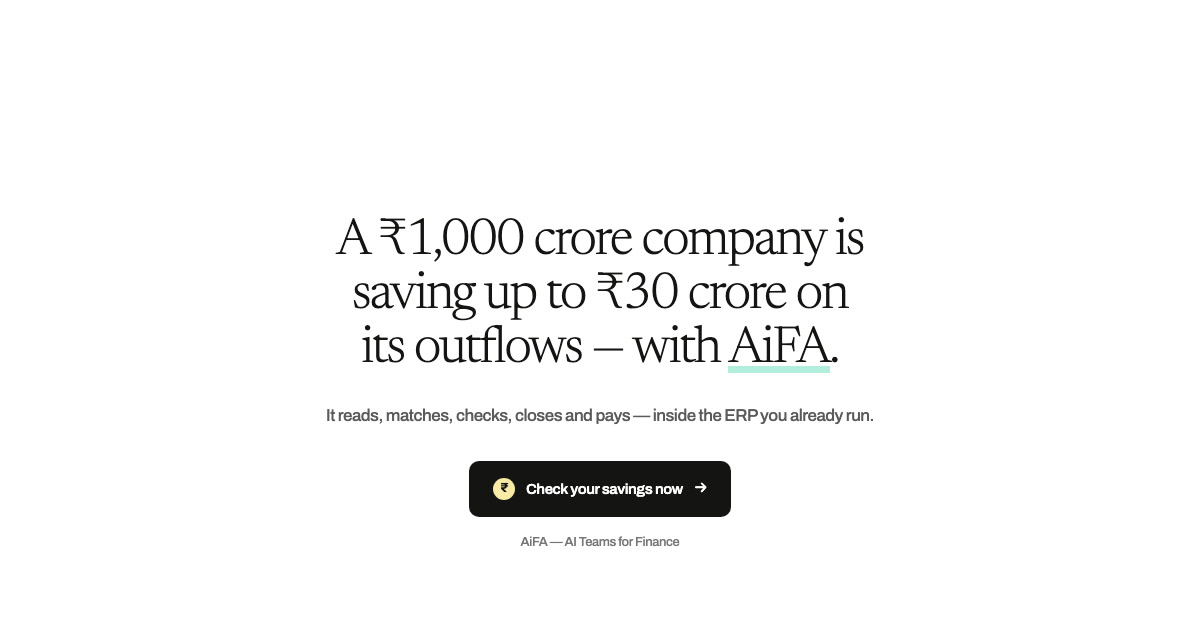
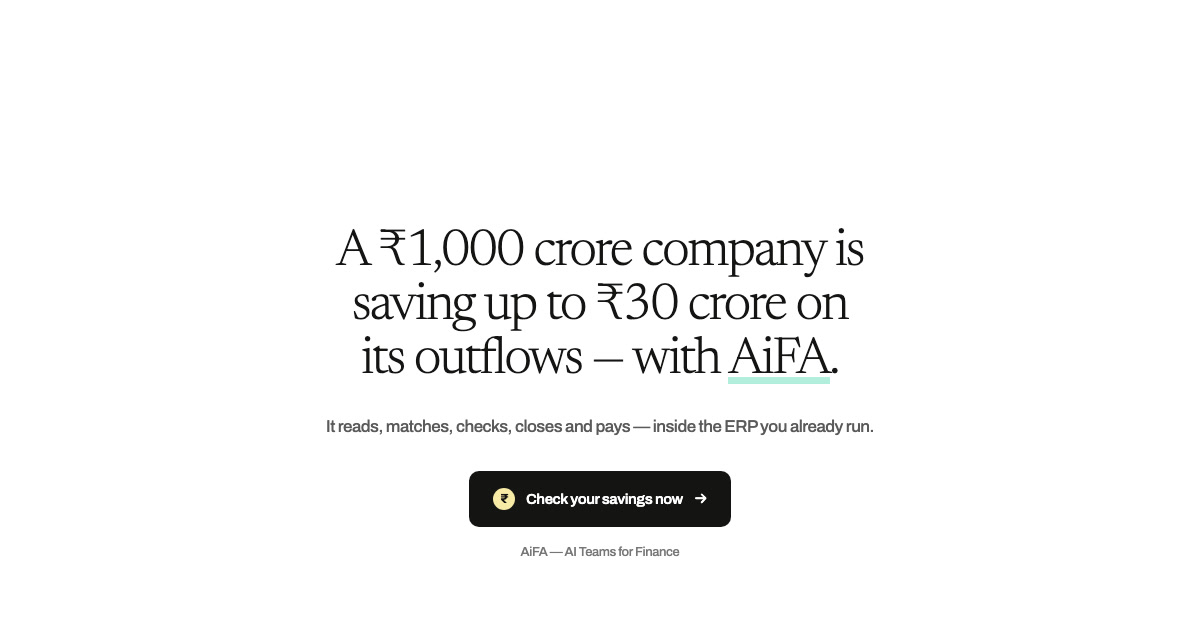
Lead with the AiFA brand; YantrAI becomes the endorsement
The approved d4-seal mark from the brand kit (~/Desktop/memory/aifa_brand)
is now the site's identity, across the homepage and all twelve content
pages, which share the same nav.

* Nav is a lockup: mark, "AiFA", and "by YantrAI" underneath in muted type.
  The old YantrAI wordmark led and AiFA sat in the tagline; that is inverted.
* The dark tile at the centre of the integrations grid leads with the mark
  instead of an inverted YantrAI wordmark.
* Favicon and apple-touch-icon are the -icon variant (rounded ink tile —
  mint disappears below ~20px, so ink alone has to carry the mark).
* Footer variant strips the -reverse mark's baked-in ink ground, since the
  footer is #12100E rather than #151414.
* OG card regenerated, since it is a render of the hero.

SVGs are copied from the kit rather than redrawn, so a change there is one
copy away from being a change here.

Changed region(s): [[0.2775, 0.3317, 0.74, 0.6937], [0.37, 0.7238, 0.6167, 0.9048]]

diff --git a/public/index.html b/public/index.html
@@ -82,9 +82,9 @@ body { margin: 0; background: #FFFFFF; }
 
   <div data-nav="1" style="position: sticky; top: 0px; z-index: 30; background: rgb(255, 255, 255); border-bottom: 1px solid rgb(230, 234, 228); display: flex; align-items: center; justify-content: space-between; gap: 32px; padding: 16px 64px;">
     <div style="display: flex; align-items: center; gap: 14px;">
-      <img src="assets/yantrai_logo.png" alt="YantrAI" style="height: 22px; width: auto; display: block;">
+      <a href="/" data-brand="1" style="display: flex; align-items: center; gap: 11px; text-decoration: none;"><img src="assets/aifa-mark.svg" alt="" width="30" height="30" style="height: 30px; width: 30px; display: block;"><span style="display: flex; flex-direction: column; line-height: 1;"><span style="font-size: 19px; font-weight: 700; letter-spacing: -0.022em; color: #151414;">AiFA</span><span data-brand-by="1" style="margin-top: 3px; font-size: 10.5px; font-weight: 500; letter-spacing: 0.02em; color: #9A9A9A;">by YantrAI</span></span></a>
       <span data-nav-tagline="1" style="display: flex; align-items: baseline; gap: 9px; white-space: nowrap; border-left: 1px solid rgb(220, 224, 218); padding-left: 14px;">
-        <span style="font-size: 15px; font-weight: 700; letter-spacing: -0.35px; color: rgb(21, 20, 20);">AiFA</span>
+        
         <span style="font-size: 13px; font-weight: 500; letter-spacing: -0.26px; color: rgb(90, 90, 90);">AI Teams for Finance</span>
       </span>
     </div>
@@ -462,7 +462,7 @@ body { margin: 0; background: #FFFFFF; }
       </div>
 
       <div style="position: absolute; left: 50%; top: 50%; width: 210px; height: 210px; margin-left: -105px; transform: translateY(-50%) perspective(900px) rotateX(46deg) rotateZ(-2deg); background: rgb(21, 20, 20); border-radius: 26px; box-shadow: rgba(21, 20, 20, 0.34) 0px 40px 70px; display: flex; flex-direction: column; align-items: center; justify-content: center; gap: 12px;">
-        <img src="assets/yantrai_logo.png" alt="YantrAI" style="height: 26px; width: auto; display: block; filter: brightness(0) invert(1);">
+        <img src="assets/aifa-mark-onDark.svg" alt="" width="30" height="30" style="height: 30px; width: 30px; display: block;">
         <span style="font-size: 13px; font-weight: 600; letter-spacing: -0.39px; color: rgb(255, 255, 255);">AiFA</span>
       </div>
 

diff --git a/public/what-it-found/index.html b/public/what-it-found/index.html
@@ -93,9 +93,9 @@ document.addEventListener('DOMContentLoaded', function () {
 <a class="visually-hidden" href="#main">Skip to content</a>
 <div data-nav="1" style="position: sticky; top: 0px; z-index: 30; background: rgb(255, 255, 255); border-bottom: 1px solid rgb(230, 234, 228); display: flex; align-items: center; justify-content: space-between; gap: 32px; padding: 16px 64px;">
     <div style="display: flex; align-items: center; gap: 14px;">
-      <img src="/assets/yantrai_logo.png" alt="YantrAI" style="height: 22px; width: auto; display: block;">
+      <a href="/" data-brand="1" style="display: flex; align-items: center; gap: 11px; text-decoration: none;"><img src="/assets/aifa-mark.svg" alt="" width="30" height="30" style="height: 30px; width: 30px; display: block;"><span style="display: flex; flex-direction: column; line-height: 1;"><span style="font-size: 19px; font-weight: 700; letter-spacing: -0.022em; color: #151414;">AiFA</span><span data-brand-by="1" style="margin-top: 3px; font-size: 10.5px; font-weight: 500; letter-spacing: 0.02em; color: #9A9A9A;">by YantrAI</span></span></a>
       <span data-nav-tagline="1" style="display: flex; align-items: baseline; gap: 9px; white-space: nowrap; border-left: 1px solid rgb(220, 224, 218); padding-left: 14px;">
-        <span style="font-size: 15px; font-weight: 700; letter-spacing: -0.35px; color: rgb(21, 20, 20);">AiFA</span>
+        
         <span style="font-size: 13px; font-weight: 500; letter-spacing: -0.26px; color: rgb(90, 90, 90);">AI Teams for Finance</span>
       </span>
     </div>

diff --git a/public/agents/3-way-match-agent/index.html b/public/agents/3-way-match-agent/index.html
@@ -80,9 +80,9 @@ body { margin: 0; background: #FFFFFF; }
 <a class="visually-hidden" href="#main">Skip to content</a>
 <div data-nav="1" style="position: sticky; top: 0px; z-index: 30; background: rgb(255, 255, 255); border-bottom: 1px solid rgb(230, 234, 228); display: flex; align-items: center; justify-content: space-between; gap: 32px; padding: 16px 64px;">
     <div style="display: flex; align-items: center; gap: 14px;">
-      <img src="/assets/yantrai_logo.png" alt="YantrAI" style="height: 22px; width: auto; display: block;">
+      <a href="/" data-brand="1" style="display: flex; align-items: center; gap: 11px; text-decoration: none;"><img src="/assets/aifa-mark.svg" alt="" width="30" height="30" style="height: 30px; width: 30px; display: block;"><span style="display: flex; flex-direction: column; line-height: 1;"><span style="font-size: 19px; font-weight: 700; letter-spacing: -0.022em; color: #151414;">AiFA</span><span data-brand-by="1" style="margin-top: 3px; font-size: 10.5px; font-weight: 500; letter-spacing: 0.02em; color: #9A9A9A;">by YantrAI</span></span></a>
       <span data-nav-tagline="1" style="display: flex; align-items: baseline; gap: 9px; white-space: nowrap; border-left: 1px solid rgb(220, 224, 218); padding-left: 14px;">
-        <span style="font-size: 15px; font-weight: 700; letter-spacing: -0.35px; color: rgb(21, 20, 20);">AiFA</span>
+        
         <span style="font-size: 13px; font-weight: 500; letter-spacing: -0.26px; color: rgb(90, 90, 90);">AI Teams for Finance</span>
       </span>
     </div>

diff --git a/public/agents/discount-agent/index.html b/public/agents/discount-agent/index.html
@@ -80,9 +80,9 @@ body { margin: 0; background: #FFFFFF; }
 <a class="visually-hidden" href="#main">Skip to content</a>
 <div data-nav="1" style="position: sticky; top: 0px; z-index: 30; background: rgb(255, 255, 255); border-bottom: 1px solid rgb(230, 234, 228); display: flex; align-items: center; justify-content: space-between; gap: 32px; padding: 16px 64px;">
     <div style="display: flex; align-items: center; gap: 14px;">
-      <img src="/assets/yantrai_logo.png" alt="YantrAI" style="height: 22px; width: auto; display: block;">
+      <a href="/" data-brand="1" style="display: flex; align-items: center; gap: 11px; text-decoration: none;"><img src="/assets/aifa-mark.svg" alt="" width="30" height="30" style="height: 30px; width: 30px; display: block;"><span style="display: flex; flex-direction: column; line-height: 1;"><span style="font-size: 19px; font-weight: 700; letter-spacing: -0.022em; color: #151414;">AiFA</span><span data-brand-by="1" style="margin-top: 3px; font-size: 10.5px; font-weight: 500; letter-spacing: 0.02em; color: #9A9A9A;">by YantrAI</span></span></a>
       <span data-nav-tagline="1" style="display: flex; align-items: baseline; gap: 9px; white-space: nowrap; border-left: 1px solid rgb(220, 224, 218); padding-left: 14px;">
-        <span style="font-size: 15px; font-weight: 700; letter-spacing: -0.35px; color: rgb(21, 20, 20);">AiFA</span>
+        
         <span style="font-size: 13px; font-weight: 500; letter-spacing: -0.26px; color: rgb(90, 90, 90);">AI Teams for Finance</span>
       </span>
     </div>

diff --git a/public/agents/duplicate-agent/index.html b/public/agents/duplicate-agent/index.html
@@ -80,9 +80,9 @@ body { margin: 0; background: #FFFFFF; }
 <a class="visually-hidden" href="#main">Skip to content</a>
 <div data-nav="1" style="position: sticky; top: 0px; z-index: 30; background: rgb(255, 255, 255); border-bottom: 1px solid rgb(230, 234, 228); display: flex; align-items: center; justify-content: space-between; gap: 32px; padding: 16px 64px;">
     <div style="display: flex; align-items: center; gap: 14px;">
-      <img src="/assets/yantrai_logo.png" alt="YantrAI" style="height: 22px; width: auto; display: block;">
+      <a href="/" data-brand="1" style="display: flex; align-items: center; gap: 11px; text-decoration: none;"><img src="/assets/aifa-mark.svg" alt="" width="30" height="30" style="height: 30px; width: 30px; display: block;"><span style="display: flex; flex-direction: column; line-height: 1;"><span style="font-size: 19px; font-weight: 700; letter-spacing: -0.022em; color: #151414;">AiFA</span><span data-brand-by="1" style="margin-top: 3px; font-size: 10.5px; font-weight: 500; letter-spacing: 0.02em; color: #9A9A9A;">by YantrAI</span></span></a>
       <span data-nav-tagline="1" style="display: flex; align-items: baseline; gap: 9px; white-space: nowrap; border-left: 1px solid rgb(220, 224, 218); padding-left: 14px;">
-        <span style="font-size: 15px; font-weight: 700; letter-spacing: -0.35px; color: rgb(21, 20, 20);">AiFA</span>
+        
         <span style="font-size: 13px; font-weight: 500; letter-spacing: -0.26px; color: rgb(90, 90, 90);">AI Teams for Finance</span>
       </span>
     </div>

diff --git a/public/agents/gst-agent/index.html b/public/agents/gst-agent/index.html
@@ -80,9 +80,9 @@ body { margin: 0; background: #FFFFFF; }
 <a class="visually-hidden" href="#main">Skip to content</a>
 <div data-nav="1" style="position: sticky; top: 0px; z-index: 30; background: rgb(255, 255, 255); border-bottom: 1px solid rgb(230, 234, 228); display: flex; align-items: center; justify-content: space-between; gap: 32px; padding: 16px 64px;">
     <div style="display: flex; align-items: center; gap: 14px;">
-      <img src="/assets/yantrai_logo.png" alt="YantrAI" style="height: 22px; width: auto; display: block;">
+      <a href="/" data-brand="1" style="display: flex; align-items: center; gap: 11px; text-decoration: none;"><img src="/assets/aifa-mark.svg" alt="" width="30" height="30" style="height: 30px; width: 30px; display: block;"><span style="display: flex; flex-direction: column; line-height: 1;"><span style="font-size: 19px; font-weight: 700; letter-spacing: -0.022em; color: #151414;">AiFA</span><span data-brand-by="1" style="margin-top: 3px; font-size: 10.5px; font-weight: 500; letter-spacing: 0.02em; color: #9A9A9A;">by YantrAI</span></span></a>
       <span data-nav-tagline="1" style="display: flex; align-items: baseline; gap: 9px; white-space: nowrap; border-left: 1px solid rgb(220, 224, 218); padding-left: 14px;">
-        <span style="font-size: 15px; font-weight: 700; letter-spacing: -0.35px; color: rgb(21, 20, 20);">AiFA</span>
+        
         <span style="font-size: 13px; font-weight: 500; letter-spacing: -0.26px; color: rgb(90, 90, 90);">AI Teams for Finance</span>
       </span>
     </div>

diff --git a/public/agents/index.html b/public/agents/index.html
@@ -80,9 +80,9 @@ body { margin: 0; background: #FFFFFF; }
 <a class="visually-hidden" href="#main">Skip to content</a>
 <div data-nav="1" style="position: sticky; top: 0px; z-index: 30; background: rgb(255, 255, 255); border-bottom: 1px solid rgb(230, 234, 228); display: flex; align-items: center; justify-content: space-between; gap: 32px; padding: 16px 64px;">
     <div style="display: flex; align-items: center; gap: 14px;">
-      <img src="/assets/yantrai_logo.png" alt="YantrAI" style="height: 22px; width: auto; display: block;">
+      <a href="/" data-brand="1" style="display: flex; align-items: center; gap: 11px; text-decoration: none;"><img src="/assets/aifa-mark.svg" alt="" width="30" height="30" style="height: 30px; width: 30px; display: block;"><span style="display: flex; flex-direction: column; line-height: 1;"><span style="font-size: 19px; font-weight: 700; letter-spacing: -0.022em; color: #151414;">AiFA</span><span data-brand-by="1" style="margin-top: 3px; font-size: 10.5px; font-weight: 500; letter-spacing: 0.02em; color: #9A9A9A;">by YantrAI</span></span></a>
       <span data-nav-tagline="1" style="display: flex; align-items: baseline; gap: 9px; white-space: nowrap; border-left: 1px solid rgb(220, 224, 218); padding-left: 14px;">
-        <span style="font-size: 15px; font-weight: 700; letter-spacing: -0.35px; color: rgb(21, 20, 20);">AiFA</span>
+        
         <span style="font-size: 13px; font-weight: 500; letter-spacing: -0.26px; color: rgb(90, 90, 90);">AI Teams for Finance</span>
       </span>
     </div>

diff --git a/public/agents/pricing-agent/index.html b/public/agents/pricing-agent/index.html
@@ -80,9 +80,9 @@ body { margin: 0; background: #FFFFFF; }
 <a class="visually-hidden" href="#main">Skip to content</a>
 <div data-nav="1" style="position: sticky; top: 0px; z-index: 30; background: rgb(255, 255, 255); border-bottom: 1px solid rgb(230, 234, 228); display: flex; align-items: center; justify-content: space-between; gap: 32px; padding: 16px 64px;">
     <div style="display: flex; align-items: center; gap: 14px;">
-      <img src="/assets/yantrai_logo.png" alt="YantrAI" style="height: 22px; width: auto; display: block;">
+      <a href="/" data-brand="1" style="display: flex; align-items: center; gap: 11px; text-decoration: none;"><img src="/assets/aifa-mark.svg" alt="" width="30" height="30" style="height: 30px; width: 30px; display: block;"><span style="display: flex; flex-direction: column; line-height: 1;"><span style="font-size: 19px; font-weight: 700; letter-spacing: -0.022em; color: #151414;">AiFA</span><span data-brand-by="1" style="margin-top: 3px; font-size: 10.5px; font-weight: 500; letter-spacing: 0.02em; color: #9A9A9A;">by YantrAI</span></span></a>
       <span data-nav-tagline="1" style="display: flex; align-items: baseline; gap: 9px; white-space: nowrap; border-left: 1px solid rgb(220, 224, 218); padding-left: 14px;">
-        <span style="font-size: 15px; font-weight: 700; letter-spacing: -0.35px; color: rgb(21, 20, 20);">AiFA</span>
+        
         <span style="font-size: 13px; font-weight: 500; letter-spacing: -0.26px; color: rgb(90, 90, 90);">AI Teams for Finance</span>
       </span>
     </div>

diff --git a/public/agents/tds-agent/index.html b/public/agents/tds-agent/index.html
@@ -80,9 +80,9 @@ body { margin: 0; background: #FFFFFF; }
 <a class="visually-hidden" href="#main">Skip to content</a>
 <div data-nav="1" style="position: sticky; top: 0px; z-index: 30; background: rgb(255, 255, 255); border-bottom: 1px solid rgb(230, 234, 228); display: flex; align-items: center; justify-content: space-between; gap: 32px; padding: 16px 64px;">
     <div style="display: flex; align-items: center; gap: 14px;">
-      <img src="/assets/yantrai_logo.png" alt="YantrAI" style="height: 22px; width: auto; display: block;">
+      <a href="/" data-brand="1" style="display: flex; align-items: center; gap: 11px; text-decoration: none;"><img src="/assets/aifa-mark.svg" alt="" width="30" height="30" style="height: 30px; width: 30px; display: block;"><span style="display: flex; flex-direction: column; line-height: 1;"><span style="font-size: 19px; font-weight: 700; letter-spacing: -0.022em; color: #151414;">AiFA</span><span data-brand-by="1" style="margin-top: 3px; font-size: 10.5px; font-weight: 500; letter-spacing: 0.02em; color: #9A9A9A;">by YantrAI</span></span></a>
       <span data-nav-tagline="1" style="display: flex; align-items: baseline; gap: 9px; white-space: nowrap; border-left: 1px solid rgb(220, 224, 218); padding-left: 14px;">
-        <span style="font-size: 15px; font-weight: 700; letter-spacing: -0.35px; color: rgb(21, 20, 20);">AiFA</span>
+        
         <span style="font-size: 13px; font-weight: 500; letter-spacing: -0.26px; color: rgb(90, 90, 90);">AI Teams for Finance</span>
       </span>
     </div>

diff --git a/public/security/index.html b/public/security/index.html
@@ -80,9 +80,9 @@ body { margin: 0; background: #FFFFFF; }
 <a class="visually-hidden" href="#main">Skip to content</a>
 <div data-nav="1" style="position: sticky; top: 0px; z-index: 30; background: rgb(255, 255, 255); border-bottom: 1px solid rgb(230, 234, 228); display: flex; align-items: center; justify-content: space-between; gap: 32px; padding: 16px 64px;">
     <div style="display: flex; align-items: center; gap: 14px;">
-      <img src="/assets/yantrai_logo.png" alt="YantrAI" style="height: 22px; width: auto; display: block;">
+      <a href="/" data-brand="1" style="display: flex; align-items: center; gap: 11px; text-decoration: none;"><img src="/assets/aifa-mark.svg" alt="" width="30" height="30" style="height: 30px; width: 30px; display: block;"><span style="display: flex; flex-direction: column; line-height: 1;"><span style="font-size: 19px; font-weight: 700; letter-spacing: -0.022em; color: #151414;">AiFA</span><span data-brand-by="1" style="margin-top: 3px; font-size: 10.5px; font-weight: 500; letter-spacing: 0.02em; color: #9A9A9A;">by YantrAI</span></span></a>
       <span data-nav-tagline="1" style="display: flex; align-items: baseline; gap: 9px; white-space: nowrap; border-left: 1px solid rgb(220, 224, 218); padding-left: 14px;">
-        <span style="font-size: 15px; font-weight: 700; letter-spacing: -0.35px; color: rgb(21, 20, 20);">AiFA</span>
+        
         <span style="font-size: 13px; font-weight: 500; letter-spacing: -0.26px; color: rgb(90, 90, 90);">AI Teams for Finance</span>
       </span>
     </div>

diff --git a/public/workflows/invoice-entry/index.html b/public/workflows/invoice-entry/index.html
@@ -80,9 +80,9 @@ body { margin: 0; background: #FFFFFF; }
 <a class="visually-hidden" href="#main">Skip to content</a>
 <div data-nav="1" style="position: sticky; top: 0px; z-index: 30; background: rgb(255, 255, 255); border-bottom: 1px solid rgb(230, 234, 228); display: flex; align-items: center; justify-content: space-between; gap: 32px; padding: 16px 64px;">
     <div style="display: flex; align-items: center; gap: 14px;">
-      <img src="/assets/yantrai_logo.png" alt="YantrAI" style="height: 22px; width: auto; display: block;">
+      <a href="/" data-brand="1" style="display: flex; align-items: center; gap: 11px; text-decoration: none;"><img src="/assets/aifa-mark.svg" alt="" width="30" height="30" style="height: 30px; width: 30px; display: block;"><span style="display: flex; flex-direction: column; line-height: 1;"><span style="font-size: 19px; font-weight: 700; letter-spacing: -0.022em; color: #151414;">AiFA</span><span data-brand-by="1" style="margin-top: 3px; font-size: 10.5px; font-weight: 500; letter-spacing: 0.02em; color: #9A9A9A;">by YantrAI</span></span></a>
       <span data-nav-tagline="1" style="display: flex; align-items: baseline; gap: 9px; white-space: nowrap; border-left: 1px solid rgb(220, 224, 218); padding-left: 14px;">
-        <span style="font-size: 15px; font-weight: 700; letter-spacing: -0.35px; color: rgb(21, 20, 20);">AiFA</span>
+        
         <span style="font-size: 13px; font-weight: 500; letter-spacing: -0.26px; color: rgb(90, 90, 90);">AI Teams for Finance</span>
       </span>
     </div>

diff --git a/public/workflows/payment-processing/index.html b/public/workflows/payment-processing/index.html
@@ -80,9 +80,9 @@ body { margin: 0; background: #FFFFFF; }
 <a class="visually-hidden" href="#main">Skip to content</a>
 <div data-nav="1" style="position: sticky; top: 0px; z-index: 30; background: rgb(255, 255, 255); border-bottom: 1px solid rgb(230, 234, 228); display: flex; align-items: center; justify-content: space-between; gap: 32px; padding: 16px 64px;">
     <div style="display: flex; align-items: center; gap: 14px;">
-      <img src="/assets/yantrai_logo.png" alt="YantrAI" style="height: 22px; width: auto; display: block;">
+      <a href="/" data-brand="1" style="display: flex; align-items: center; gap: 11px; text-decoration: none;"><img src="/assets/aifa-mark.svg" alt="" width="30" height="30" style="height: 30px; width: 30px; display: block;"><span style="display: flex; flex-direction: column; line-height: 1;"><span style="font-size: 19px; font-weight: 700; letter-spacing: -0.022em; color: #151414;">AiFA</span><span data-brand-by="1" style="margin-top: 3px; font-size: 10.5px; font-weight: 500; letter-spacing: 0.02em; color: #9A9A9A;">by YantrAI</span></span></a>
       <span data-nav-tagline="1" style="display: flex; align-items: baseline; gap: 9px; white-space: nowrap; border-left: 1px solid rgb(220, 224, 218); padding-left: 14px;">
-        <span style="font-size: 15px; font-weight: 700; letter-spacing: -0.35px; color: rgb(21, 20, 20);">AiFA</span>
+        
         <span style="font-size: 13px; font-weight: 500; letter-spacing: -0.26px; color: rgb(90, 90, 90);">AI Teams for Finance</span>
       </span>
     </div>
